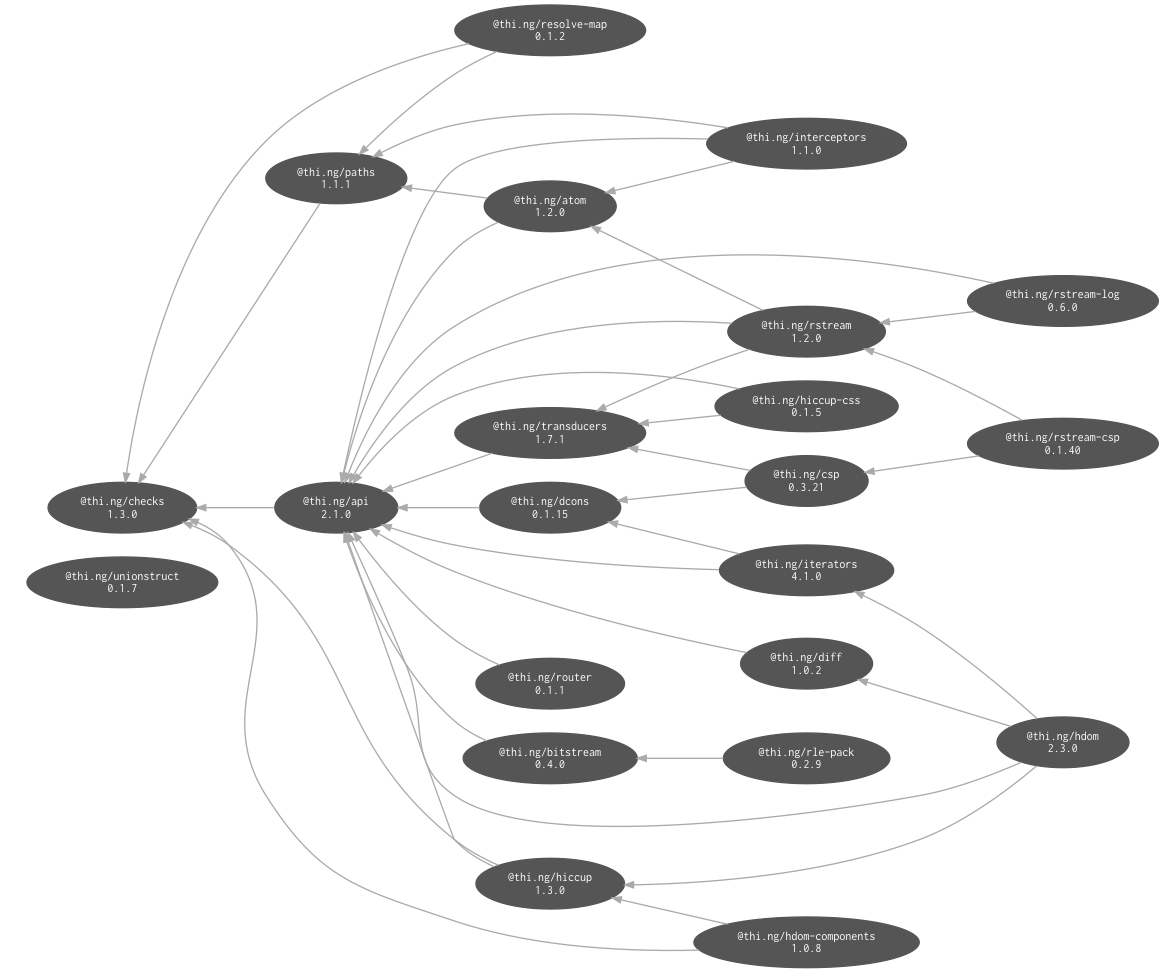
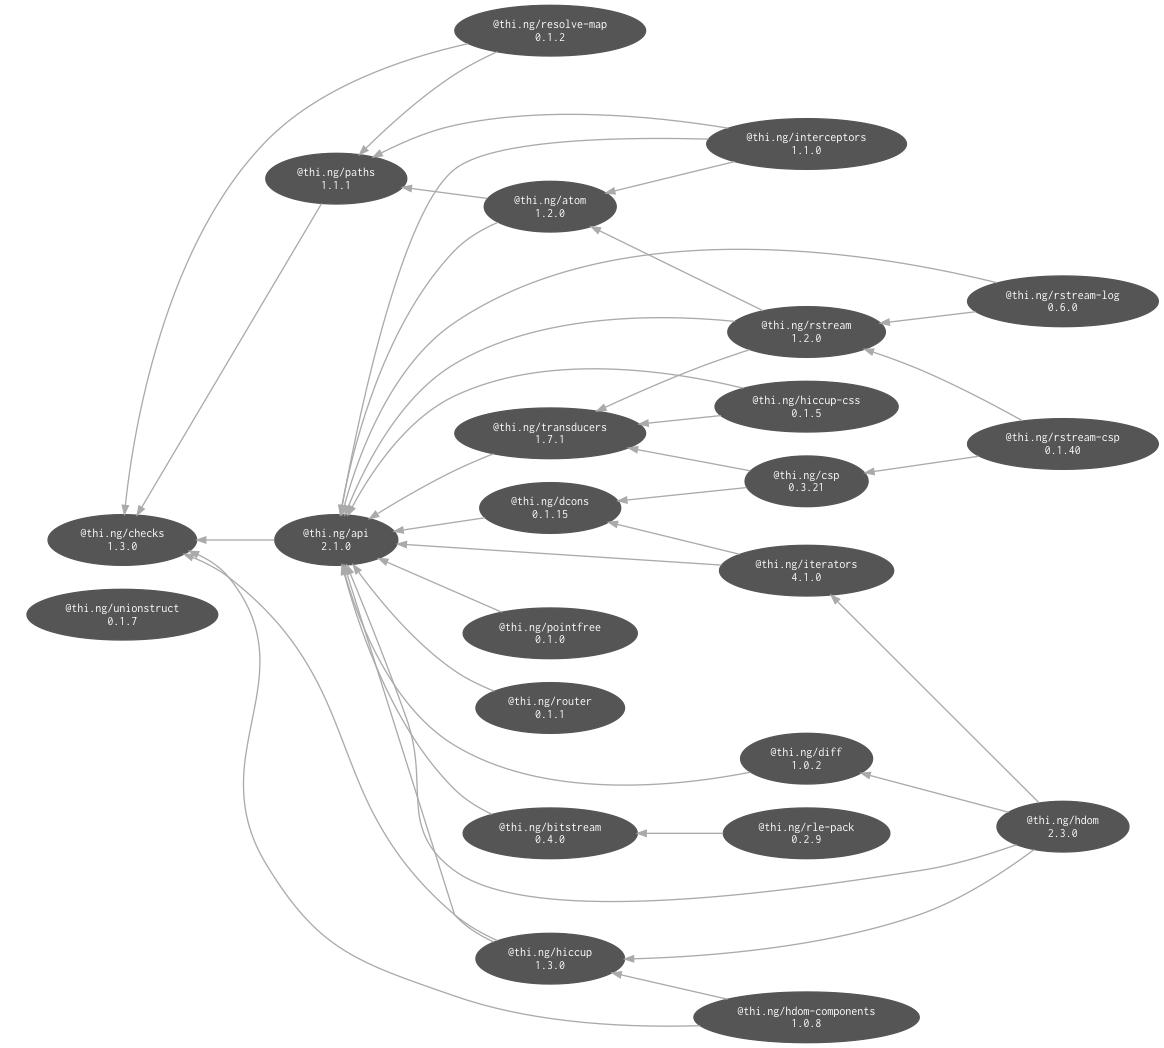
docs: update main readme/depgraph

diff --git a/README.md b/README.md
@@ -7,7 +7,7 @@ Mono-repository for thi.ng TypeScript/ES6 projects, a collection of largely
 data / transformation oriented packages and building blocks reactive
 applications, components (not just UI related), dataflow.
 
-All packages:
+All/most packages:
 
 - have detailed, individual README files w/ small usage examples
 - versioned independently
@@ -45,6 +45,7 @@ difficulties, many combining functionality from several packages) in the
 | [`@thi.ng/interceptors`](./packages/interceptors) | [![npm (scoped)](https://img.shields.io/npm/v/@thi.ng/interceptors.svg)](https://www.npmjs.com/package/@thi.ng/interceptors) | [changelog](./packages/interceptors/CHANGELOG.md) |
 | [`@thi.ng/iterators`](./packages/iterators) | [![npm (scoped)](https://img.shields.io/npm/v/@thi.ng/iterators.svg)](https://www.npmjs.com/package/@thi.ng/iterators) | [changelog](./packages/iterators/CHANGELOG.md) |
 | [`@thi.ng/paths`](./packages/paths) | [![npm (scoped)](https://img.shields.io/npm/v/@thi.ng/paths.svg)](https://www.npmjs.com/package/@thi.ng/paths) | [changelog](./packages/paths/CHANGELOG.md) |
+| [`@thi.ng/pointfree`](./packages/pointfree) | [![npm (scoped)](https://img.shields.io/npm/v/@thi.ng/pointfree.svg)](https://www.npmjs.com/package/@thi.ng/pointfree) | [changelog](./packages/pointfree/CHANGELOG.md) |
 | [`@thi.ng/rle-pack`](./packages/rle-pack) | [![npm (scoped)](https://img.shields.io/npm/v/@thi.ng/rle-pack.svg)](https://www.npmjs.com/package/@thi.ng/rle-pack) | [changelog](./packages/rle-pack/CHANGELOG.md) |
 | [`@thi.ng/resolve-map`](./packages/resolve-map) | [![npm (scoped)](https://img.shields.io/npm/v/@thi.ng/resolve-map.svg)](https://www.npmjs.com/package/@thi.ng/resolve-map) | [changelog](./packages/resolve-map/CHANGELOG.md) |
 | [`@thi.ng/router`](./packages/router) | [![npm (scoped)](https://img.shields.io/npm/v/@thi.ng/router.svg)](https://www.npmjs.com/package/@thi.ng/router) | [changelog](./packages/router/CHANGELOG.md) |
